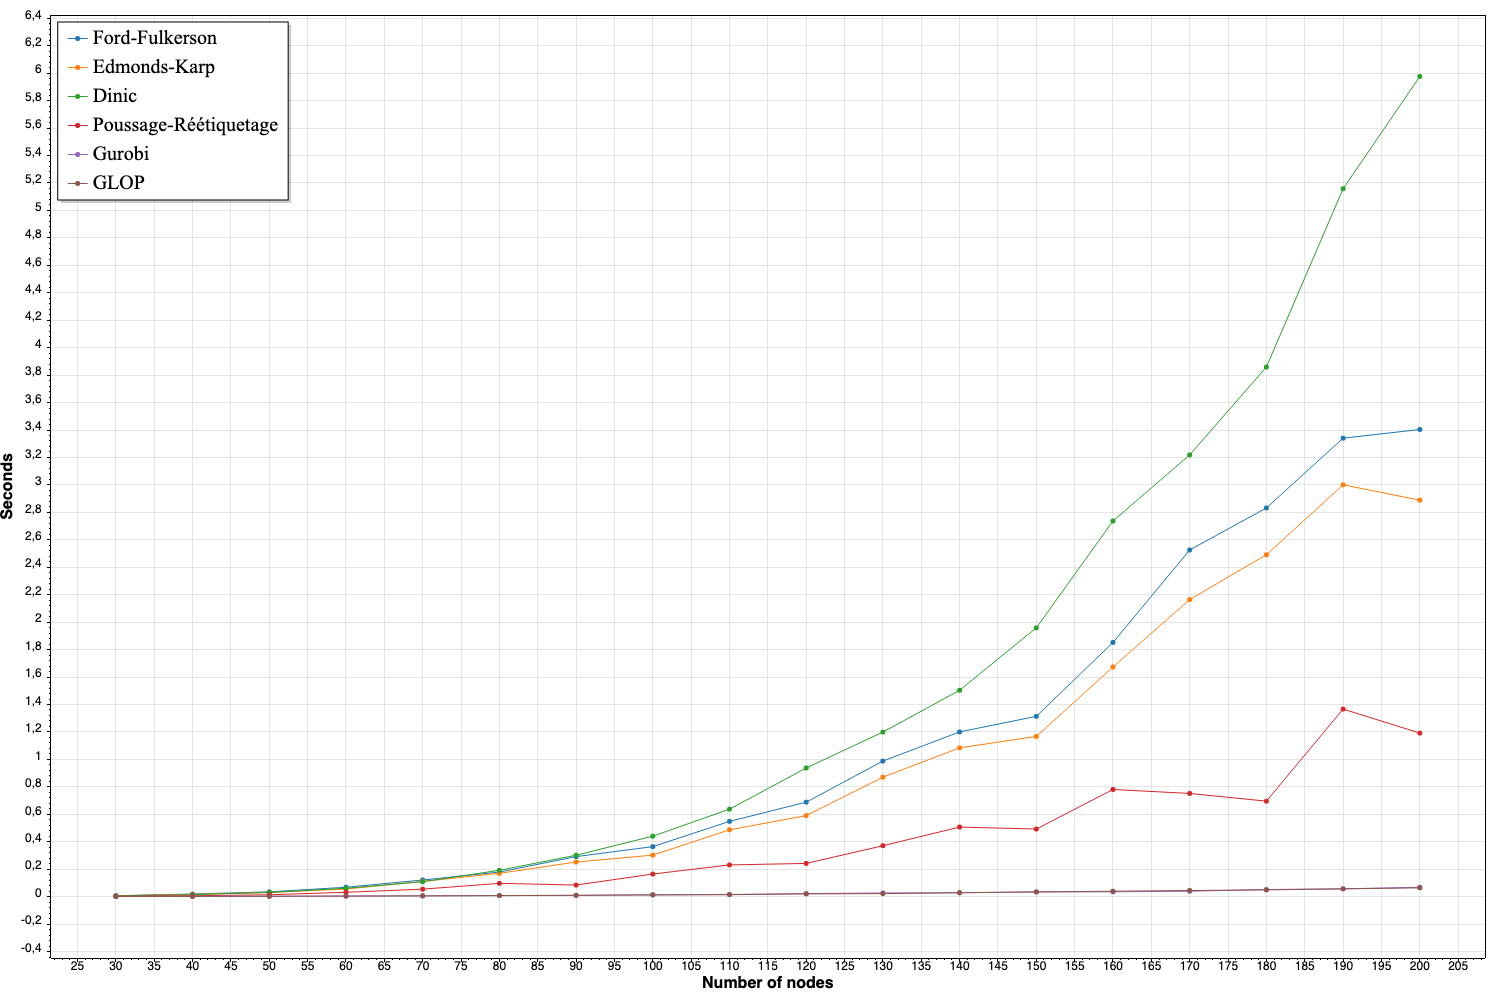
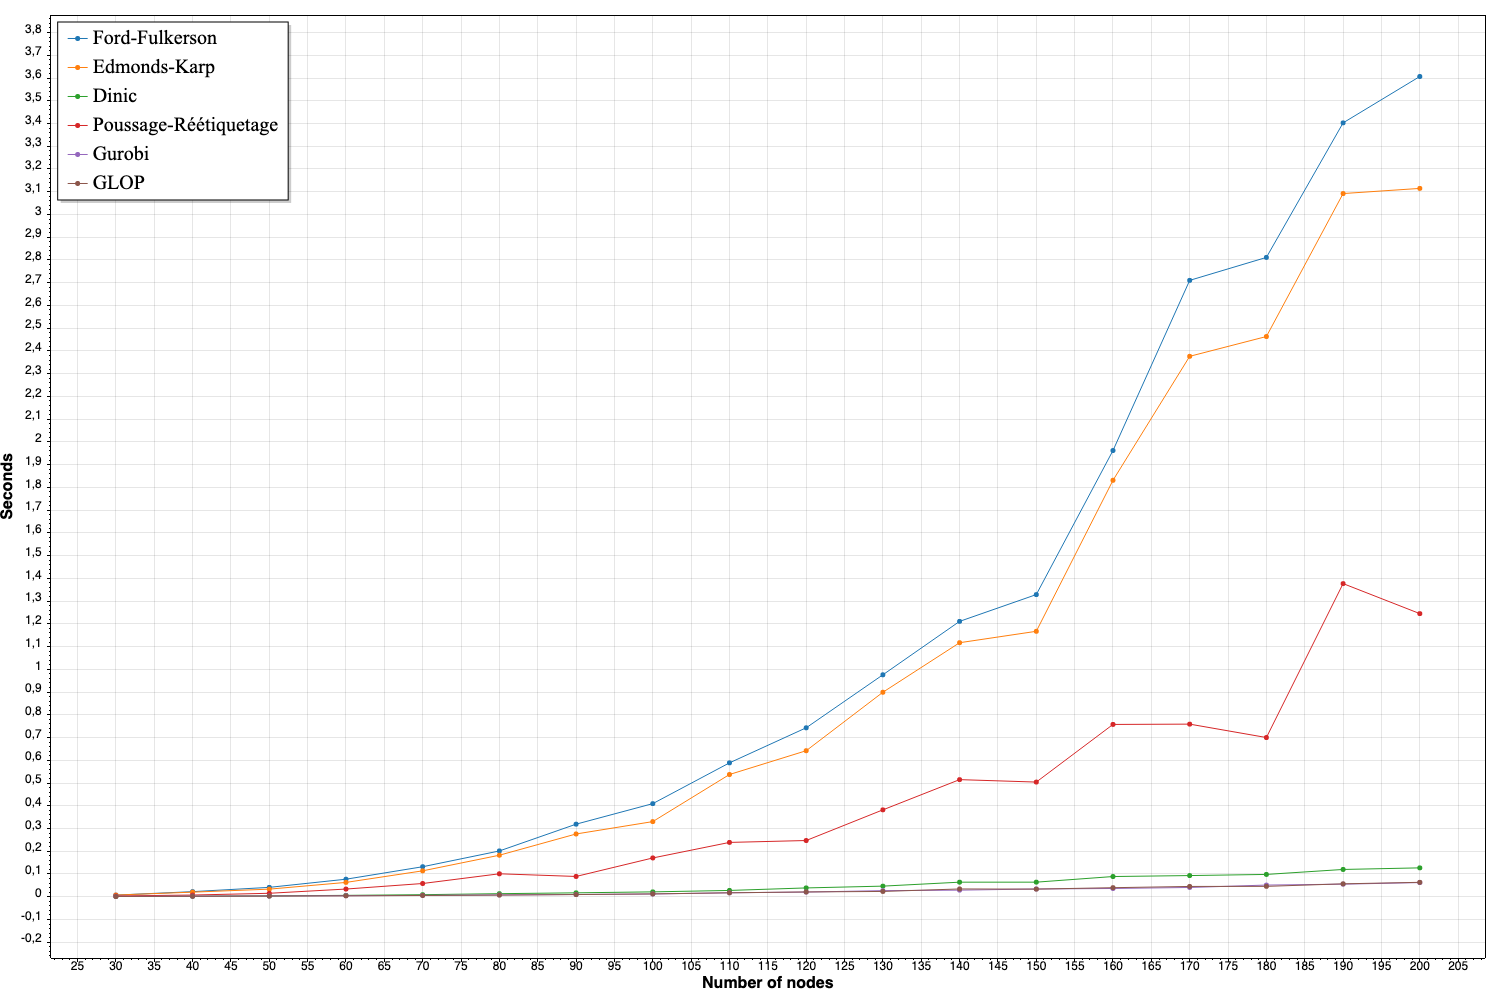
Dinic speedup

diff --git a/FlotMaximum/FlotMaximum/FlowNetwork.cs b/FlotMaximum/FlotMaximum/FlowNetwork.cs
@@ -218,21 +218,15 @@ public class FlowNetwork : Graph
         {
             return currentPath;
         }
-        foreach (var edge in currentResidualNetwork.Edges.Where(kvp => kvp.Key.Item1.Equals(u) && kvp.Value > 0))
+        foreach (var v in currentResidualNetwork.AdjVertices[u])
         {
-            Vertex v = edge.Key.Item2;
+            if (currentResidualNetwork.Edges[(u, v)] <= 0) continue;
             if (levels.TryGetValue(v, out int value) && value == levels[u] + 1 && !visitedOnPath.Contains(v))
             {
                 var newPath = new List<Vertex>(currentPath);
                 newPath.Add(v);
                 stack.Push((v, newPath));
                 visitedOnPath.Add(v);
-                 if (levels.TryGetValue(v, out int value2) && value2 == levels[u] + 1 && !currentPath.Contains(v))
-                 {
-                    var newPath2 = new List<Vertex>(currentPath);
-                    newPath2.Add(v);
-                    stack.Push((v, newPath2));
-                 }
             }
         }
     }
@@ -582,7 +576,7 @@ public class FlowNetwork : Graph
     // Poussage-réétiquatage
     public void ReLabel(Vertex u, Dictionary<Vertex, int> hauteur, Flow flot)
     {
-        int m = AdjVertices.Count;;
+        int m = AdjVertices.Count;
         foreach (var t in AdjVertices[u])
         {
             if (GetResidualEdge(flot, (u, t)) > 0)
@@ -613,7 +607,7 @@ public class FlowNetwork : Graph
         Dictionary<Vertex, int> hauteur = new();
         Dictionary<Vertex, int> excedent = new();
         Queue<Vertex> sommet_actifs = [];
-        foreach (var (s,t) in AdjVertices)
+        foreach (var s in AdjVertices.Keys)
         {
             hauteur.Add(s,0);
             excedent.Add(s,0);
@@ -680,11 +674,11 @@ public class FlowNetwork : Graph
             if (sommet_actifs.Count == 0)
             {
                 compteur--;
-                foreach (var t in AdjVertices)
+                foreach (var t in AdjVertices.Keys)
                 {
-                    if (excedent[t.Key] > 0 && hauteur[t.Key] <AdjVertices.Count && t.Key != Puits)
+                    if (excedent[t] > 0 && hauteur[t] <AdjVertices.Count && t != Puits)
                     {
-                        sommet_actifs.Enqueue(t.Key);
+                        sommet_actifs.Enqueue(t);
                     }
                 }
             }
